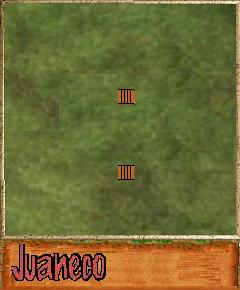
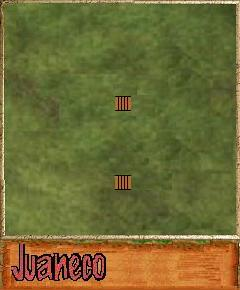
agregación de imágenes de escena final y las imágenes de transición por cada episodio (mapas del perú con el recorrido de juaneco, mapa1, mapa2, mapa3)

Changed region(s): [[0.4667, 0.5276, 0.5833, 0.6828], [0.4667, 0.2793, 0.5833, 0.4034], [0.6708, 0.5897, 0.7292, 0.6517]]

diff --git a/JuanecoSW/src/Snake/Escenario.java b/JuanecoSW/src/Snake/Escenario.java
@@ -128,21 +128,21 @@ public class Escenario {
     }
 
     public int[][] selva() {
-        int a[][] = {{0, 0, 0, 0, 0, 0, 0, 0, 14, 0, 0, 0, 0, 0, 0},
-            {0, 0, 15, 15, 15, 0, 0, 0, 14, 0, 0, 0, 15, 0, 0},
-            {0, 0, 15, 15, 15, 0, 0, 0, 14, 0, 0, 0, 15, 0, 0},
-            {0, 0, 15, 0, 0, 0, 0, 0, 14, 0, 0, 0, 15, 0, 0},
-            {0, 0, 15, 0, 0, 0, 0, 0, 14, 0, 0, 0, 15, 0, 0},
-            {0, 0, 0, 0, 0, 0, 0, 0, 14, 0, 0, 0, 15, 0, 0},
+        int a[][] = {{0, 0, 0, 0, 0, 0, 0, 0, 0, 0, 0, 0, 0, 0, 0},
+            {0, 0, 15, 15, 15, 0, 0, 0, 0, 0, 0, 0, 15, 0, 0},
+            {0, 0, 15, 15, 15, 0, 0, 0, 0, 0, 0, 0, 15, 0, 0},
+            {0, 0, 15, 0, 0, 0, 0, 0, 0, 0, 0, 0, 15, 0, 0},
+            {0, 0, 15, 0, 0, 0, 0, 0, 0, 0, 0, 0, 15, 0, 0},
+            {0, 0, 0, 0, 0, 0, 0, 0, 0, 0, 0, 0, 15, 0, 0},
             {0, 0, 0, 0, 0, 0, 0, 0, 0, 0, 0, 0, 0, 0, 0},
-            {0, 0, 0, 0, 0, 0, 0, 0, 14, 0, 0, 0, 0, 0, 0},
-            {0, 0, 0, 0, 0, 0, 0, 0, 14, 0, 0, 0, 0, 0, 0},
-            {0, 0, 0, 0, 0, 0, 0, 0, 14, 0, 0, 0, 0, 15, 0},
-            {0, 0, 15, 0, 0, 0, 0, 0, 14, 0, 0, 0, 0, 15, 0},
+            {14, 14, 14, 14, 14, 14, 0, 14, 14, 14, 14, 0, 14, 14, 14},
+            {0, 0, 0, 0, 0, 0, 0, 0, 0, 0, 0, 0, 0, 0, 0},
+            {0, 0, 0, 0, 0, 0, 0, 0, 0, 0, 0, 0, 0, 15, 0},
             {0, 0, 15, 0, 0, 0, 0, 0, 0, 0, 0, 0, 0, 15, 0},
-            {0, 0, 15, 0, 0, 0, 0, 0, 14, 0, 0, 0, 0, 15, 0},
-            {0, 0, 15, 15, 15, 0, 0, 0, 14, 0, 0, 0, 0, 15, 0},
-            {0, 0, 0, 0, 0, 0, 0, 0, 14, 0, 0, 0, 0, 0, 0},};
+            {0, 0, 15, 0, 0, 0, 0, 0, 0, 0, 0, 0, 0, 15, 0},
+            {0, 0, 15, 0, 0, 0, 0, 0, 0, 0, 0, 0, 0, 15, 0},
+            {0, 0, 15, 15, 15, 0, 0, 0, 0, 0, 0, 0, 0, 15, 0},
+            {0, 0, 0, 0, 0, 0, 0, 0, 0, 0, 0, 0, 0, 0, 0},};
         return a;
     }
 
